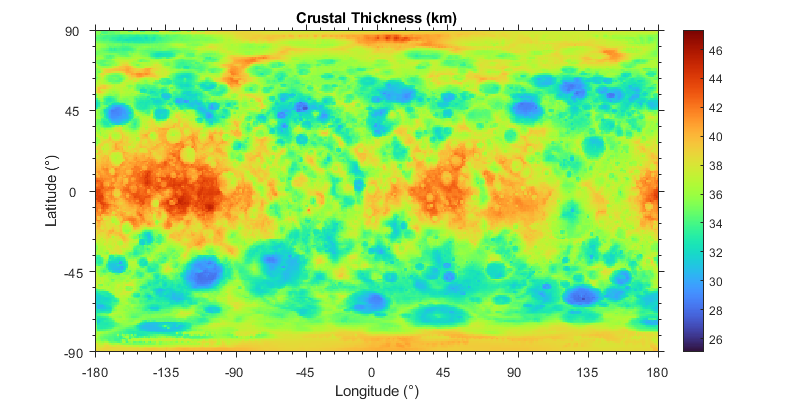
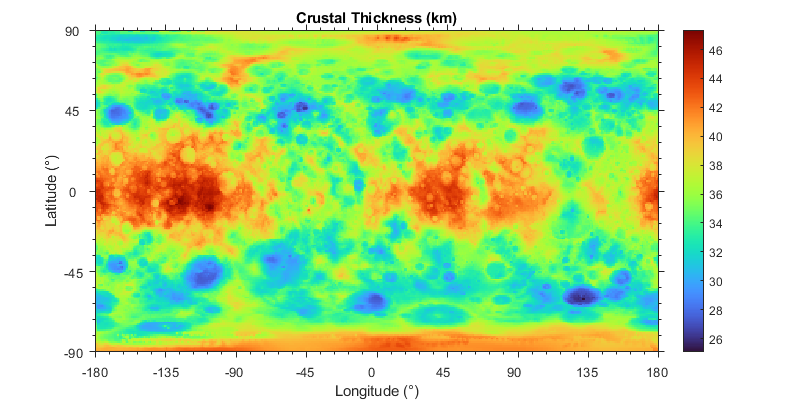
sync

diff --git a/Verification.m b/Verification.m
@@ -35,14 +35,62 @@ Lon_matrix = repmat(lonGrid,length(latGrid),1);
 Lat_matrix = repmat(latGrid',1,length(lonGrid));
 Uniform_matrix = ones(size(Lat_matrix));
 
-Gaussian_noise = randn(size(Uniform_matrix));
-min_height = -5000;
-max_height = 10000;
-Gaussian_noise = (Gaussian_noise - min(Gaussian_noise(:))) / (max(Gaussian_noise(:)) - min(Gaussian_noise(:))) ...
-    * (max_height - min_height) + min_height;
-Topography = Gaussian_noise;
+function X = rands(sz,sig)
+        % BASE CASE
+        if nargin == 0
+            X = rand;
+            return
+        end
+        % PARSE SIZE OF ARRAY
+        if any(sz ~= fix(sz))
+            error('Size inputs must be integers');
+        end
+        if numel(sz) == 1
+            sz = sz*[1 1];
+        end
+        % DEFAULT GAUSSIAN WIDTH (pixels)
+        if nargin == 1
+            sig = ceil(0.1*max(sz));
+        end
+        % GENERATE RANDOM NUMBERS
+        X = rand(sz);
+        % CALCULATE GAUSSIAN KERNEL 
+        K = gkern(sz,sig);
+        % SMOOTH RANDOM NUMBERS WITH FFT
+        X = real(ifftn(fftn(X) .* fftn(K,sz)));
+        % SCALE X
+        X = X - min(X(:));
+        X = X / max(X(:));
+    end
+    function K = gkern(sz,sigma)
+    % GKERN     Calculates Gaussian kernel of size "sz" with width "sig"
+        % CALCULATE NUMBER OF DIMENSIONS
+        N = numel(sz);
+        % CALCULATE GRID CENTER
+        cidx = ceil(sz / 2);
+        
+        % CALCULATE ND GRID
+        inds = cell(1, N);
+        for i = 1 : N
+            inds{i} = 1:sz(i);
+        end
+        [grid{1:N}] = ndgrid(inds{:});
+        % CALCULATE RADIAL DISTANCE 
+        % SQUARED FROM CENTER
+        RSQ = 0;
+        for i = 1 : N
+            RSQ = RSQ + (grid{i} - cidx(i)).^2;
+        end
+        % CALCULATE GAUSSIAN KERNEL
+        K = exp(- RSQ / (2*sigma^2)); 
+        K = K / sum(K(:));
+    end
 
-Boundary_matrix = synthetic_crust_thickness .* Uniform_matrix + 2 .* - Topography;
+Smooth_noise = rands([ 180 360 ], 2);
+Topography = 10e3 .* (Smooth_noise - mean(Smooth_noise));
+
+Smooth_noise2 = rands([ 180 360 ], 2);
+Boundary_matrix = synthetic_crust_thickness .* Uniform_matrix + 1e3 .* (Smooth_noise2 - mean(Smooth_noise2));
 
 % Compute synthetic gravity data using forward model
 V_Model_synthetic = segment_2layer_model(Topography, Boundary_matrix, -150e3, ...
@@ -52,16 +100,14 @@ synthetic_gravity_matrix = data_synthetic.vec.R;
 
 % Initialize the inversion with a different boundary matrix
 initial_guess_thickness = -40e3;
-Gaussian_noise = randn(size(Uniform_matrix));
-min_height = -10000;
-max_height = 10000; 
-Gaussian_noise = (Gaussian_noise - min(Gaussian_noise(:))) / (max(Gaussian_noise(:)) - min(Gaussian_noise(:))) ...
-    * (max_height - min_height) + min_height;
-Boundary_matrix_inverted = initial_guess_thickness .* Uniform_matrix + Gaussian_noise;
+Smooth_noise3 = rands([ 180 360 ], 2);
+Boundary_matrix_inverted = initial_guess_thickness .* Uniform_matrix + 4e3 .* (Smooth_noise3 - mean(Smooth_noise3));
 
 % % % ITERATION
-max_itr = 50;
+max_itr = 150;
 tolerance = 1e-5;
+best_value = 1;
+
 for iter = 0:max_itr
     % Update model
     [V_Model] = segment_2layer_model(Topography, Boundary_matrix_inverted, -150e3, ...
@@ -87,25 +133,22 @@ for iter = 0:max_itr
         end
     end
 
-    % Check for convergence
-    max_residual = max(max(abs(residual_matrix)));
-    disp(['Iteration: ', num2str(iter), ', Max Residual: ', num2str(max_residual)]);
-    
-    if max_residual < tolerance
-        disp(['Converged at iteration: ', num2str(iter)]);
-        break;
+    if abs(mean(residual_matrix, 'all')) < best_value
+        best_boundary_matrix = Boundary_matrix_inverted;
+        best_value = abs(mean(residual_matrix, 'all'));
+        best_iter = iter;
+        disp(['Best iteration: ' num2str(iter)])
     end
+
 end
 
-
-
 Thickness_matrix = Topography - Boundary_matrix;
-Thickness_matrix_inv = Topography - Boundary_matrix_inverted;
+Thickness_matrix_inv = Topography - best_boundary_matrix;
 
 % Evaluate results
 disp(['True Thickness mean: ', num2str(mean(Thickness_matrix(:)))]);
 disp(['Inverted  Thickness Mean: ', num2str(mean(Thickness_matrix_inv(:)))]);
-disp(['Final Residual Norm: ', num2str(norm(residual_matrix))]);
+disp(['Best Residual: ', num2str(best_value)]);
 
 % Plotting results
 max_boundary = max(max(Thickness_matrix./1e3));

diff --git a/Assignment2_3.m b/Assignment2_3.m
@@ -61,7 +61,7 @@ Bottom_thickness = -175e3;
 save([HOME '/Data/' Model.name '.mat'],'Model')
 
 % % % ITERATION
-max_itr = 350;
+max_itr = 250;
 tolerance = 1e-5;
 best_value = 1;
 
@@ -89,9 +89,11 @@ for iter = 0:max_itr
         end
     end
 
-    if abs(mean(residual_matrix, 'all')) < best_value
+    if abs(median(residual_matrix, 'all')) < best_value
         best_boundary_matrix = Boundary_matrix;
-        best_value = abs(mean(residual_matrix, 'all'));
+        best_value = abs(median(residual_matrix, 'all'));
+        best_iter = iter;
+        disp(['Best iteration: ' num2str(iter)])
     end
 
 end
